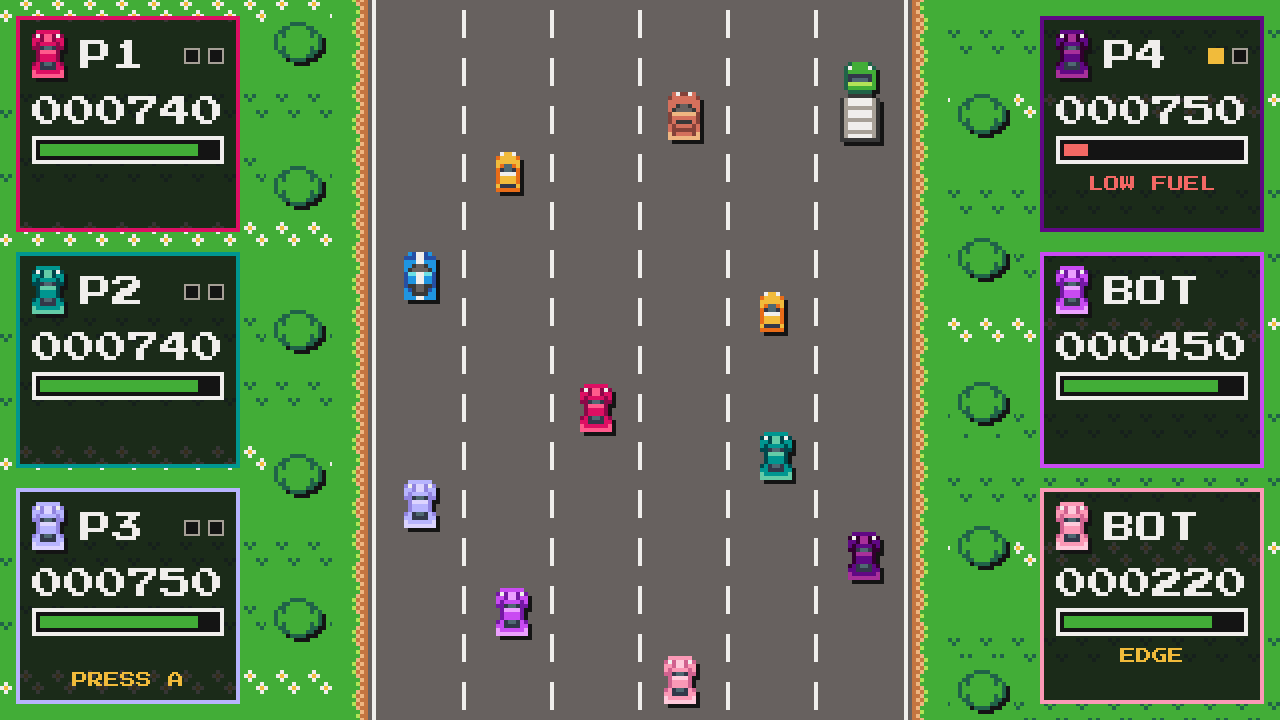
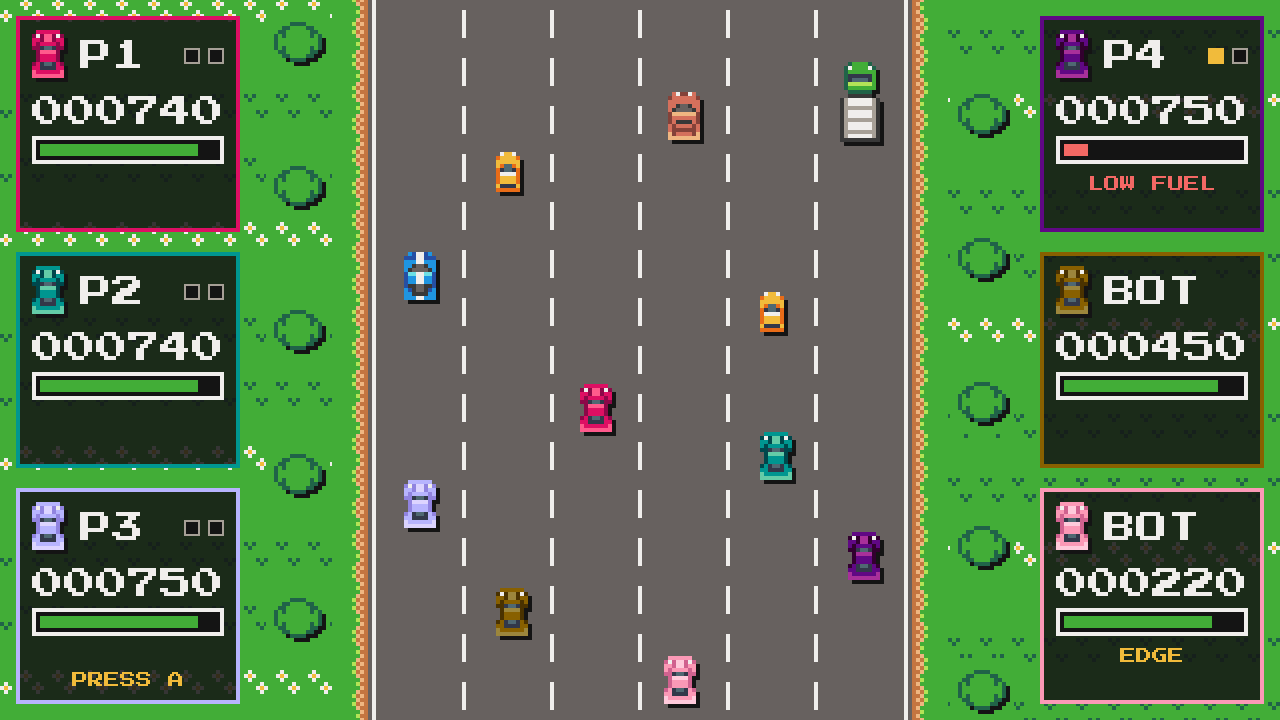
B2 review: P5 brown instead of purple (colour-vision), shades of any rank, gapped line-up test; notes
Claude-Session: https://claude.ai/code/session_01V7ANsn76W3gEX3oGo3hREs

Changed region(s): [[0.8125, 0.3361, 1.0, 0.4583], [0.8125, 0.6417, 1.0, 0.6722], [0.375, 0.7944, 0.4375, 0.8861]]

diff --git a/docs/HANDOFF.md b/docs/HANDOFF.md
@@ -1916,26 +1916,22 @@ Each change below was made in a scratch copy, with the tests run and the file re
   as soon as Steam reports one controller of its own.
 - On a PC with Steam, `tools/test.sh` starts Steam once as Spacewar (480) in the test process.
 
-## Lead notes after B2 and B4 (weekly usage limit reached on 18 Oct)
+## Lead notes after B2 and B4 (updated 18 Oct, after the weekly limit)
 
-B1, B2 and B4 are merged in `feat/road-fighter-mvp` (337 tests, smoke 1p and versus, export_check). B4 passed its
-adversarial review (pass, minor findings only); B2's two verifiers passed the look and failed the flow on two missing
-tests, which its fixer added (keyboard drives no car; every pad gone) with the `set_bots()` fix, the car look, the HUD
-marks (EDGE and LOW FUEL, PRESS A on an orphan seat). The agents stopped at the weekly limit (resets 22 Oct, 23:00 UTC)
-before a re-review. Still open, all minor:
+B1, B2 and B4 are merged in `feat/road-fighter-mvp`. B4 passed its adversarial review (minor findings only). B2's
+look verifier passed and its flow verifier failed on two missing tests; the fixes were finished by the lead (no
+re-review): keyboard drives no car, every pad gone, `set_bots()`, car look, HUD marks, a gapped line-up race test
+(`test_a_gapped_line_up_keeps_each_seats_colour`, mutation-checked), `test_player_shades_of_any_rank_are_far_from_each_other`
+(floor `MIN_ANY_TO_ANY` 8), and P5's colour changed from PURPLE to BROWN (`#886000`; dark `#4a3200`, light `#9c863c`): under
+deuteranopia the purple was 2.0 CIEDE2000 from the blue traffic car. The brown is at least 11 from every traffic colour
+and other seat under normal, protan and deutan vision (Machado 2009 simulation; windshield colours, shared by every
+car, excluded), and the pictures 07-11 were re-shot. The weakest pairs left under simulation are RUBY/TEAL/PINK
+bodies at about 10 under protanopia and some dark and light shades at 2 to 5: six colours that are also five away
+from the traffic's cannot all be far apart for every colour-vision type, so the seats' names and the P1 to P6 labels
+stay on screen.
 
-**B2**
-- Colour-vision deficiency: under protan/deutan simulation PURPLE folds towards the blue traffic car and some seats
-  get close to each other. Choose the six with a deficiency simulation in the loop (the verifier suggested a mint near
-  `#00f0a8` instead of PURPLE), keeping the owner's rule (colour only) and the CIEDE2000 floors; re-shoot 07-11.
-- `test_seat_colours.gd` compares shades of the same rank only; extend to any rank with a floor of about 10.
-- A race-screen test with a gapped line-up (slot != seat, e.g. seats [0, 4]) for the cars, the HUD and the results.
-- The fixer's changes (ae0fd73) have not been re-reviewed.
-
-**B4** (fixer's partial work in 8d5f701, tests pass, not re-reviewed)
-- Check which of the review's items 1-7 it finished: take over only when every set and action handle is non-zero;
-  the tools never start Steam; `manifest_path_for()` and device-id tests; hold-over only right after a set switch;
-  docs ("usually" crashes on the first import); a README test; controller types without a layout in STEAM_INPUT.md.
+The B4 fixer's partial work (8d5f701) covers review items 1 to 4 and 6; the lead did items 5 and 7 (docs).
+Nothing from B2's and B4's fixes has had a second adversarial review.
 
 ## B3: QA with six cars and the real Linux and Windows builds (lead, 18 Oct)
 

diff --git a/README.md b/README.md
@@ -72,7 +72,7 @@ Gamepad buttons are by position: A is the bottom face button, B the right one.
 
 Each player has a gamepad; the keyboard drives no car. Esc goes back (it pauses a race only when no gamepad is
 left, and quits a paused match), and F11 or Alt+Enter switches fullscreen. Each player's car is the colour
-of their seat, which is the only way to tell players apart: P1 ruby, P2 teal, P3 lilac, P4 plum, P5 purple and P6
+of their seat, which is the only way to tell players apart: P1 ruby, P2 teal, P3 lilac, P4 plum, P5 brown and P6
 pink, each colour for good. No traffic car has any of them (the rainbow-coloured fuel car aside).
 
 ![A versus race: six cars in the six player colours among the traffic, and a panel per car either side of the road](docs/screenshots/08-versus-race.png)
